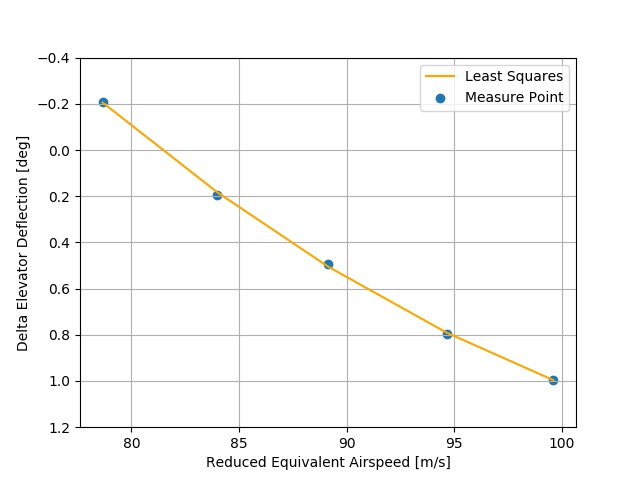
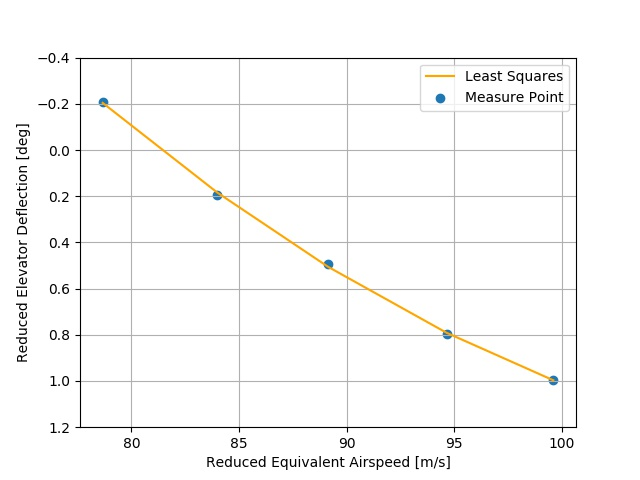
Plots voor Validation nogmaals, nu echt goed!!

diff --git a/CLCDcurve.py b/CLCDcurve.py
@@ -1,10 +1,10 @@
-from Cit_par import mass,CD0,rho0,Tempgrad,R,g,Temp0,S,c,A
+from Cit_par import mass,rho0,Tempgrad,R,g,Temp0,S,c,A
 from math import pi
 import numpy as np
 import matplotlib.pyplot as plt
 import pandas as pd
 from ReadMeas import *
-from ClCdRef import passmass, Vequi, totalthrustele, totalthrustelestand, totalthrustele_mat, totalthrustele_matstand, CLalpha, b,e,CD0, AOAlist, CD, CLlist
+from ClCdRef import passmass, Vequi, totalthrustele, totalthrustelestand, totalthrustele_mat, totalthrustele_matstand, CLalpha, b,e,CD0, AOAlist, CLlist,CL2
 
 ##READ DATA AND CREATE ARRAY##
 time = np.array(pd.read_csv('flight_data/time.csv', delimiter=',', header=None))
@@ -43,11 +43,11 @@ CLline_CL = clalpha_mat*AOA_CL[:,0] + ma_mat
 print('Cl_alpha =', clalpha_mat, clalpha_mat*(180/pi))
 ##Calculate CD##
 CDgraph_mat = CD0 + (CLline_CL) ** 2 / (pi * A * e)
-CDstat = CD
 
 #From Numerical Model#
 AOAstat = np.array(AOAlist)
 linecl_stat = CLalpha*AOAstat + b
+CDstat = CD0 + linecl_stat/(pi * A * e)
 
 #Plots CL and CD##
 # plt.grid()
@@ -56,7 +56,7 @@ linecl_stat = CLalpha*AOAstat + b
 # plt.ylabel('Lift Coefficient [-]')
 # plt.xlabel('Angle of Attack [deg]')
 # plt.legend()
-# plt.savefig('CLalphacompare.jpg')
+# # plt.savefig('CLalphacompare.jpg')
 # plt.show()
 #
 # plt.grid()
@@ -98,8 +98,8 @@ print('Cmdelta =', Cmdelta)
 height = np.array([i.height for i in EleTrimCurve])
 V_ias = np.array([i.IAS for i in EleTrimCurve])
 Temp = np.array([(i.TAT + 273.15) for i in EleTrimCurve])
-Vtasele = Vequi(height,V_ias,Temp)[0]
-rhoele = Vequi(height,V_ias,Temp)[1]
+# Vtasele = Vequi(height,V_ias,Temp)[0]
+# rhoele = Vequi(height,V_ias,Temp)[1]
 V_e = Vequi(height,V_ias,Temp)[2]
 Fusedele = np.array([i.Fused for i in EleTrimCurve])
 mtot_el = mass + passmass + fuelblock - Fusedele
@@ -112,8 +112,10 @@ Cmtc = -.0064  #reader appendix
 eledefl = np.array([i.de for i in EleTrimCurve])
 aoa = np.array([i.AoA for i in EleTrimCurve])
 d_eng = 0.686 #m
-Tc = totalthrustele/(0.5*rhoele*Ve_e**2*S)
-Tcs = totalthrustelestand/(0.5*rhoele*Ve_e**2*d_eng**2)
+Tc = totalthrustele/(0.5*rho0*Ve_e**2*S)
+print(Tc)
+Tcs = totalthrustelestand/(0.5*rho0*Ve_e**2*d_eng**2)
+print(Tcs)
 deleq = eledefl - (1/Cmdelta *Cmtc * (Tcs - Tc))
 ##-------Plotting AoA against Ele delfection and determine Cmalpha------##
 deda, q = np.polyfit(aoa,deleq,1)
@@ -123,7 +125,7 @@ print('deda =', deda)
 # plt.scatter(aoa,deleq, label='Measure Point')
 # plt.plot(aoa,line, c='orange', label='Least Squares')
 # plt.ylim(1.2,-0.5)
-# plt.ylabel('Delta Elevator Deflection [deg]')
+# plt.ylabel('Reduced Elevator Deflection [deg]')
 # plt.xlabel('Angle of Attack [deg]')
 # plt.legend()
 # plt.savefig('DedAOA.jpg')
@@ -133,15 +135,15 @@ Cmalpha = -deda * Cmdelta
 print('Cmalpha =', Cmalpha)
 
 #-------------------Plotting Ele defl against Ve----##
-# Ve_e_dde1 = np.column_stack([Ve_e,deleq])
-# Ve_e_dde = Ve_e_dde1[Ve_e_dde1[:,0].argsort()]
-# d, f, j = np.polyfit(Ve_e_dde[:,0],Ve_e_dde[:,1],2)
-# line_eleV = d*Ve_e_dde[:,0]**2 + f*Ve_e_dde[:,0] + j
+Ve_e_dde1 = np.column_stack([Ve_e,deleq])
+Ve_e_dde = Ve_e_dde1[Ve_e_dde1[:,0].argsort()]
+d, f, j = np.polyfit(Ve_e_dde[:,0],Ve_e_dde[:,1],2)
+line_eleV = d*Ve_e_dde[:,0]**2 + f*Ve_e_dde[:,0] + j
 # plt.grid()
 # plt.scatter(Ve_e_dde[:,0],Ve_e_dde[:,1], label='Measure Point')
 # plt.plot(Ve_e_dde[:,0],d*Ve_e_dde[:,0]**2 + f*Ve_e_dde[:,0] + j, c='orange', label='Least Squares')
 # plt.ylim(1.2,-0.4)
-# plt.ylabel('Delta Elevator Deflection [deg]')
+# plt.ylabel('Reduced Elevator Deflection [deg]')
 # plt.xlabel('Reduced Equivalent Airspeed [m/s]')
 # plt.legend()
 # plt.savefig('DedV.jpg')
@@ -158,7 +160,7 @@ line_feele = d*Ve_e_Fe[:,0]**2 + f*Ve_e_Fe[:,0] + j
 # plt.scatter(Ve_e_Fe[:,0],Ve_e_Fe[:,1], label='Measure Point')
 # plt.plot(Ve_e_Fe[:,0],d*Ve_e_Fe[:,0]**2 + f*Ve_e_Fe[:,0] + j, c='orange', label='Least Squares')
 # plt.ylim(70,-40)
-# plt.ylabel('Force on Elevator Control Wheel [N]')
+# plt.ylabel('Reduced Force on Elevator Control Wheel [N]')
 # plt.xlabel('Reduced Equivalent Speed [m/s]')
 # plt.legend()
 # plt.savefig('FeV.jpg')
@@ -195,19 +197,19 @@ FUtot_ele = np.array(FUtot[29910:33511])
 W_ele = np.array([(masstot-FUtot_ele[i])*g for i in range(len(FUtot_ele))])
 Ve_graph = Ve_ele * np.sqrt(Ws/W_ele)
 # print(len(Ve_graph))
-Tc = totalthrustele_mat/(0.5*rho_ele*Ve_graph**2*S)
-Tcs = totalthrustele_matstand/(0.5*rho_ele*Ve_graph**2*d_eng**2)
+Tc = totalthrustele_mat/(0.5*rho0*Ve_graph**2*S)
+Tcs = totalthrustele_matstand/(0.5*rho0*Ve_graph**2*d_eng**2)
 de_elemat = de_ele - (1/Cmdelta_mat * Cmtc) * (Tcs - Tc)
 # print(len(de_elemat))
 
 # f , k, v = np.polyfit(Ve_graph[:,0],de_elemat[:,0],2)
 # plt.grid()
-# # plt.scatter(Ve_graph[:,0],de_elemat[:,0], marker='.', label='Measure Point')
-# # plt.plot(Ve_graph[:,0], f*Ve_graph[:,0]**2 + k *Ve_graph[:,0] + v, c='orange', label='Least Squares')
+# plt.scatter(Ve_graph[:,0],de_elemat[:,0], marker='.', label='Measure Point')
+# plt.plot(Ve_graph[:,0], f*Ve_graph[:,0]**2 + k *Ve_graph[:,0] + v, c='orange', label='Least Squares')
 # plt.plot(Ve_graph[:,0], f*Ve_graph[:,0]**2 + k *Ve_graph[:,0] + v, c='orange', label='Least Squares of Flightdata')
 # plt.plot(Ve_e_dde[:,0],line_eleV, label='Stationary Flight Measurements')
 # plt.ylim(1.25,-0.7)
-# plt.ylabel('Delta Elevator Deflection [deg]')
+# plt.ylabel('Reduced Elevator Deflection [deg]')
 # plt.xlabel('Reduced Equivalent Airspeed [m/s]')
 # plt.legend()
 # plt.savefig('DedVcompare.jpg')
@@ -220,7 +222,7 @@ deda_mat, b_mat = np.polyfit(AOA_ele[:,0], de_elemat[:,0],1)
 # plt.plot(AOA_ele[:,0], deda_mat*AOA_ele[:,0] + b_mat, c='orange', label='Least Squares of Flightdata')
 # # plt.plot(AOA_ele[:,0], deda_mat*AOA_ele[:,0] + b_mat, c='orange', label='Least Squares')
 # plt.ylim(1.25,-0.7)
-# plt.ylabel('Delta Elevator Deflection [deg]')
+# plt.ylabel('Reduced Elevator Deflection [deg]')
 # plt.xlabel('Angle of Attack [deg]')
 # plt.legend()
 # plt.savefig('DedAOAcompare.jpg')
@@ -231,14 +233,14 @@ print('Cmalpha matlab =', Cmalpha_mat)
 
 Femea_mat = np.array(Fele[29910:33511])
 Fele_mat = Femea_mat * Ws/W_ele
-w , s, v = np.polyfit(Ve_graph[:,0],Fele_mat[:,0],2)
+# w , s, v = np.polyfit(Ve_graph[:,0],Fele_mat[:,0],2)
 # plt.grid()
 # # plt.scatter(Ve_graph[:,0],Fele_mat[:,0], marker='.', label='Measure Point')
 # # plt.plot(Ve_graph[:,0],w*Ve_graph[:,0]**2 + s * Ve_graph[:,0] + v, c='orange', label='Least Squares')
 # plt.plot(Ve_graph[:,0],w*Ve_graph[:,0]**2 + s * Ve_graph[:,0] + v, c='orange', label='Least Squares of Flightdata')
 # plt.plot(Ve_e_Fe[:,0],line_feele, label='Stationary Flight Measurements')
 # plt.ylim(70,-50)
-# plt.ylabel('Force Elevator Control Wheel [N]')
+# plt.ylabel('Reduced Force on Elevator Control Wheel [N]')
 # plt.xlabel('Reduced Equivalent Airspeed [m/s]')
 # plt.legend()
 # plt.savefig('FeVcompare.jpg')

diff --git a/ClCdRef.py b/ClCdRef.py
@@ -1,5 +1,5 @@
 import numpy as np
-from Cit_par import S, Tempgrad, Temp0, g, rho0, R, A
+from Cit_par import S, Tempgrad, Temp0, g, rho0, R, A,c
 from ReadMeas import *
 import matplotlib.pyplot as plt
 
@@ -100,11 +100,11 @@ print(CLalpha)
 CL2 = np.array(CLlist)**2
 C = np.vstack([CL2, np.ones(len(CL2))]).T
 piAe,CD0 = np.linalg.lstsq(C,CDlist,rcond=None)[0]
-plt.scatter(CL2,CDlist)
-plt.plot(CL2, CL2*piAe + CD0)
-plt.xlabel('Lift coefficient squared [-]')
-plt.ylabel('Drag coefficient [-]')
-plt.plot()
+# plt.scatter(CL2,CDlist)
+# plt.plot(CL2, CL2*piAe + CD0)
+# plt.xlabel('Lift coefficient squared [-]')
+# plt.ylabel('Drag coefficient [-]')
+# plt.plot()
 
 e = 1/(piAe*np.pi*A)
 print('CD0 = ', CD0,'  e = ',e)
@@ -116,17 +116,17 @@ print('CD0 = ', CD0,'  e = ',e)
 #plt.plot()
 
 ##-------------Elevator Trim Curve-----------------##
-#elethrust = open("Thrust//thrustEleTrimMeas.dat", "r")
-#elethrustarray = elethrust.readlines()
-#eleleftthrust = []
-#elerightthrust = []
-#for i in elethrustarray:
-#    i = i.split('\t')
-#    i[1] = i[1].replace('\n','')
-#    eleleftthrust.append(float(i[0]))
-#    elerightthrust.append(float(i[1]))
-#
-#totalthrustele = np.add(eleleftthrust,elerightthrust)
+elethrust = open("Thrust//thrustEleTrimMeas.dat", "r")
+elethrustarray = elethrust.readlines()
+eleleftthrust = []
+elerightthrust = []
+for i in elethrustarray:
+   i = i.split('\t')
+   i[1] = i[1].replace('\n','')
+   eleleftthrust.append(float(i[0]))
+   elerightthrust.append(float(i[1]))
+
+totalthrustele = np.add(eleleftthrust,elerightthrust)
 
 elethruststand = open("Thrust//thrustEleTrimMeasStandard.dat", "r")
 elethrustarraystand = elethruststand.readlines()
